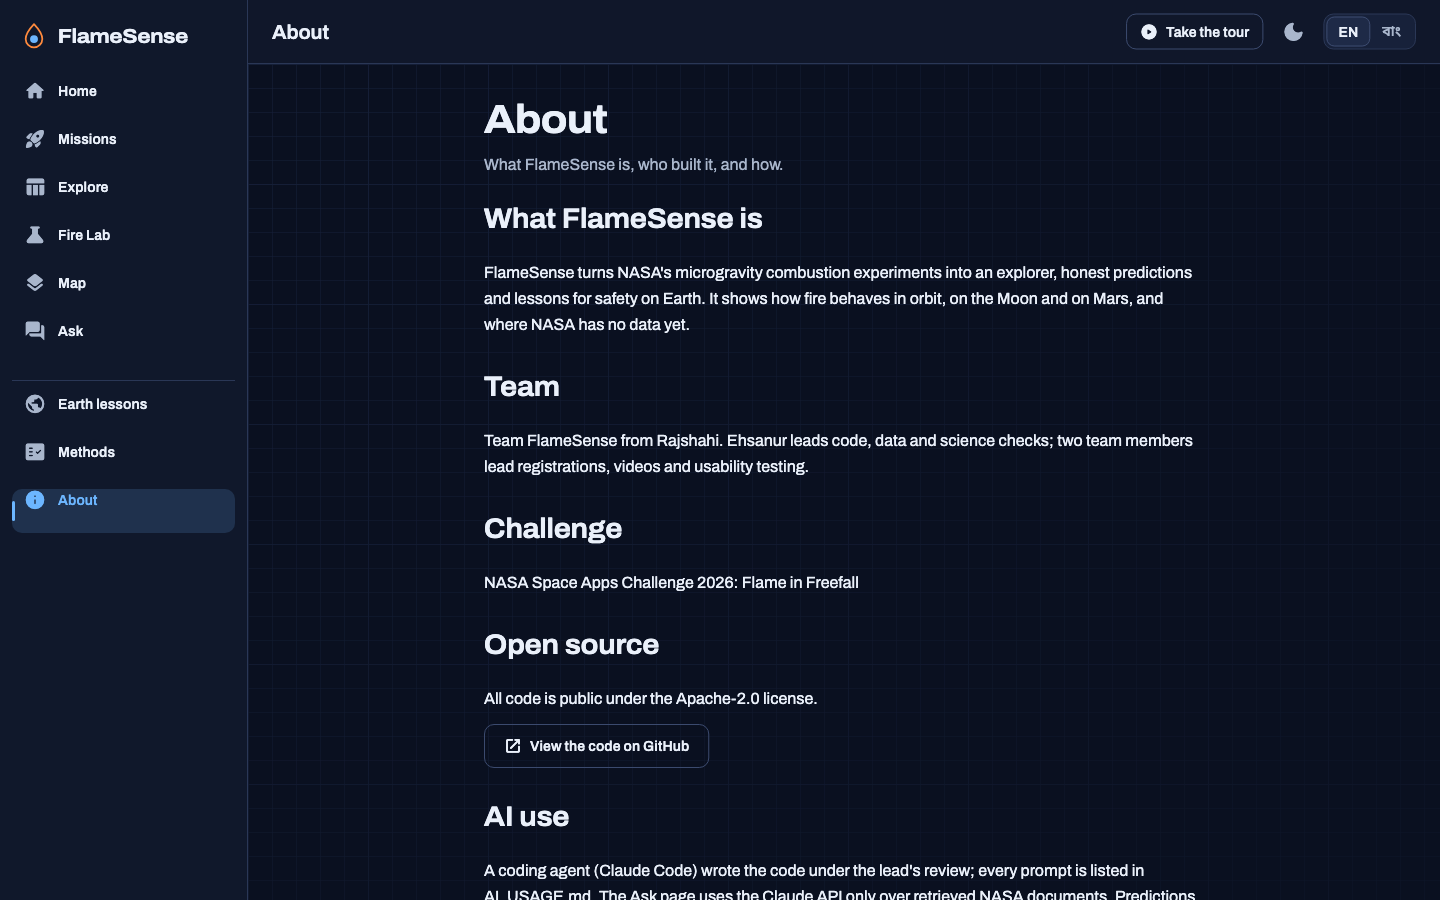
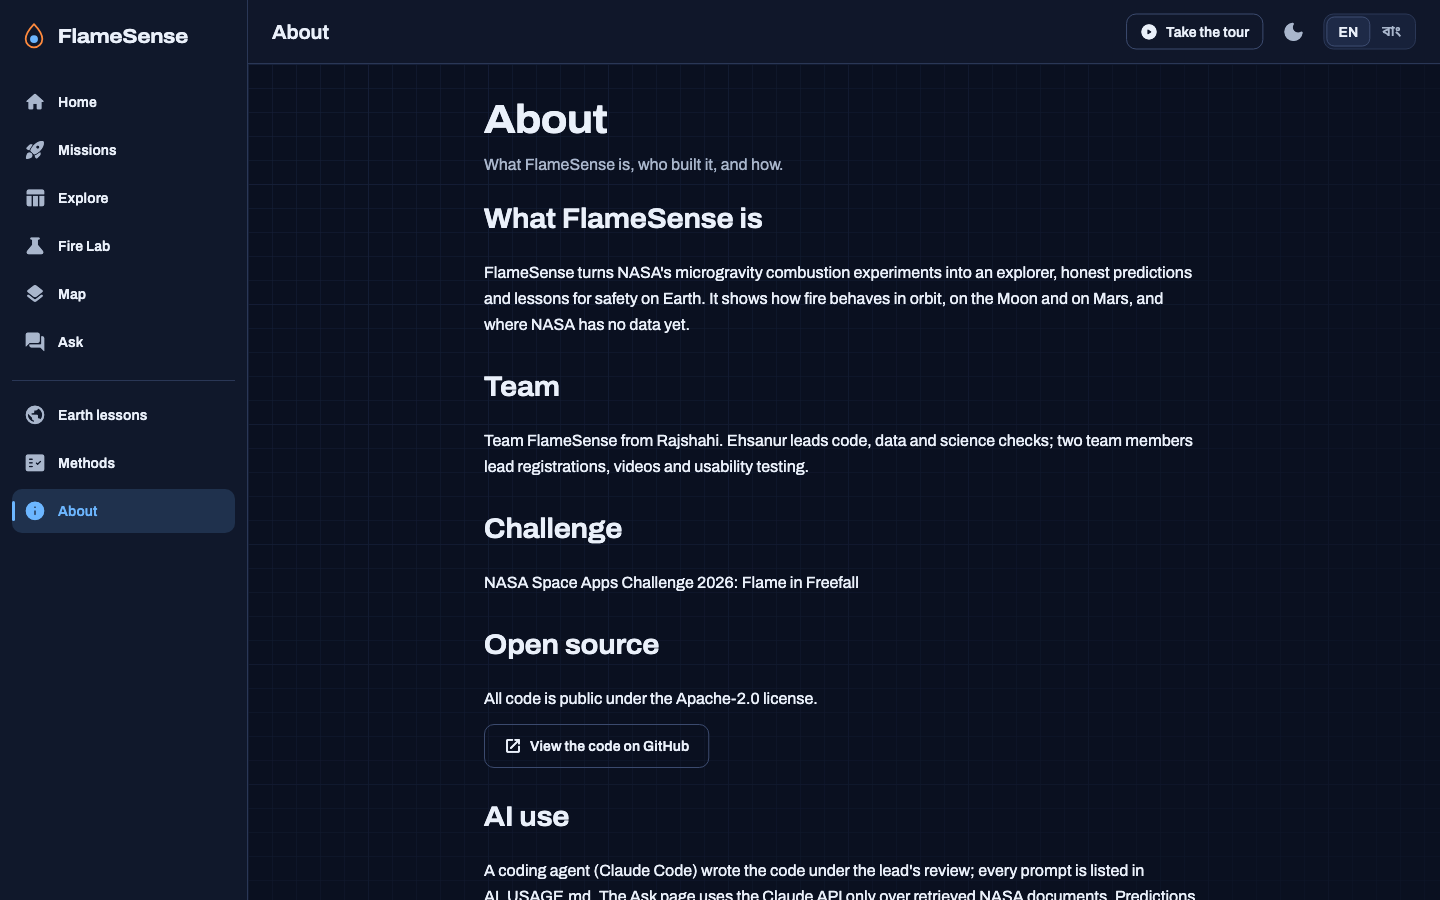
fix(shell): centre active rail item content and indicator bar

Changed region(s): [[0.0, 0.0933, 0.0938, 0.28], [0.0, 0.4356, 0.125, 0.5911], [0.0, 0.3111, 0.0625, 0.4044]]

diff --git a/app/lib/features/shell/nav_rail.dart b/app/lib/features/shell/nav_rail.dart
@@ -111,12 +111,15 @@ class _RailItem extends StatelessWidget {
             mouseCursor: SystemMouseCursors.click,
             child: SizedBox(
               height: FsSize.railItem,
+              // Expand so the row fills the 44 px tile and centres vertically.
               child: Stack(
+                fit: StackFit.expand,
                 children: [
                   if (selected)
                     Positioned(
                       left: 0,
                       top: (FsSize.railItem - FsSize.activeBarHeight) / 2,
+                      height: FsSize.activeBarHeight,
                       child: Container(
                         width: FsSize.activeBarWidth,
                         height: FsSize.activeBarHeight,
